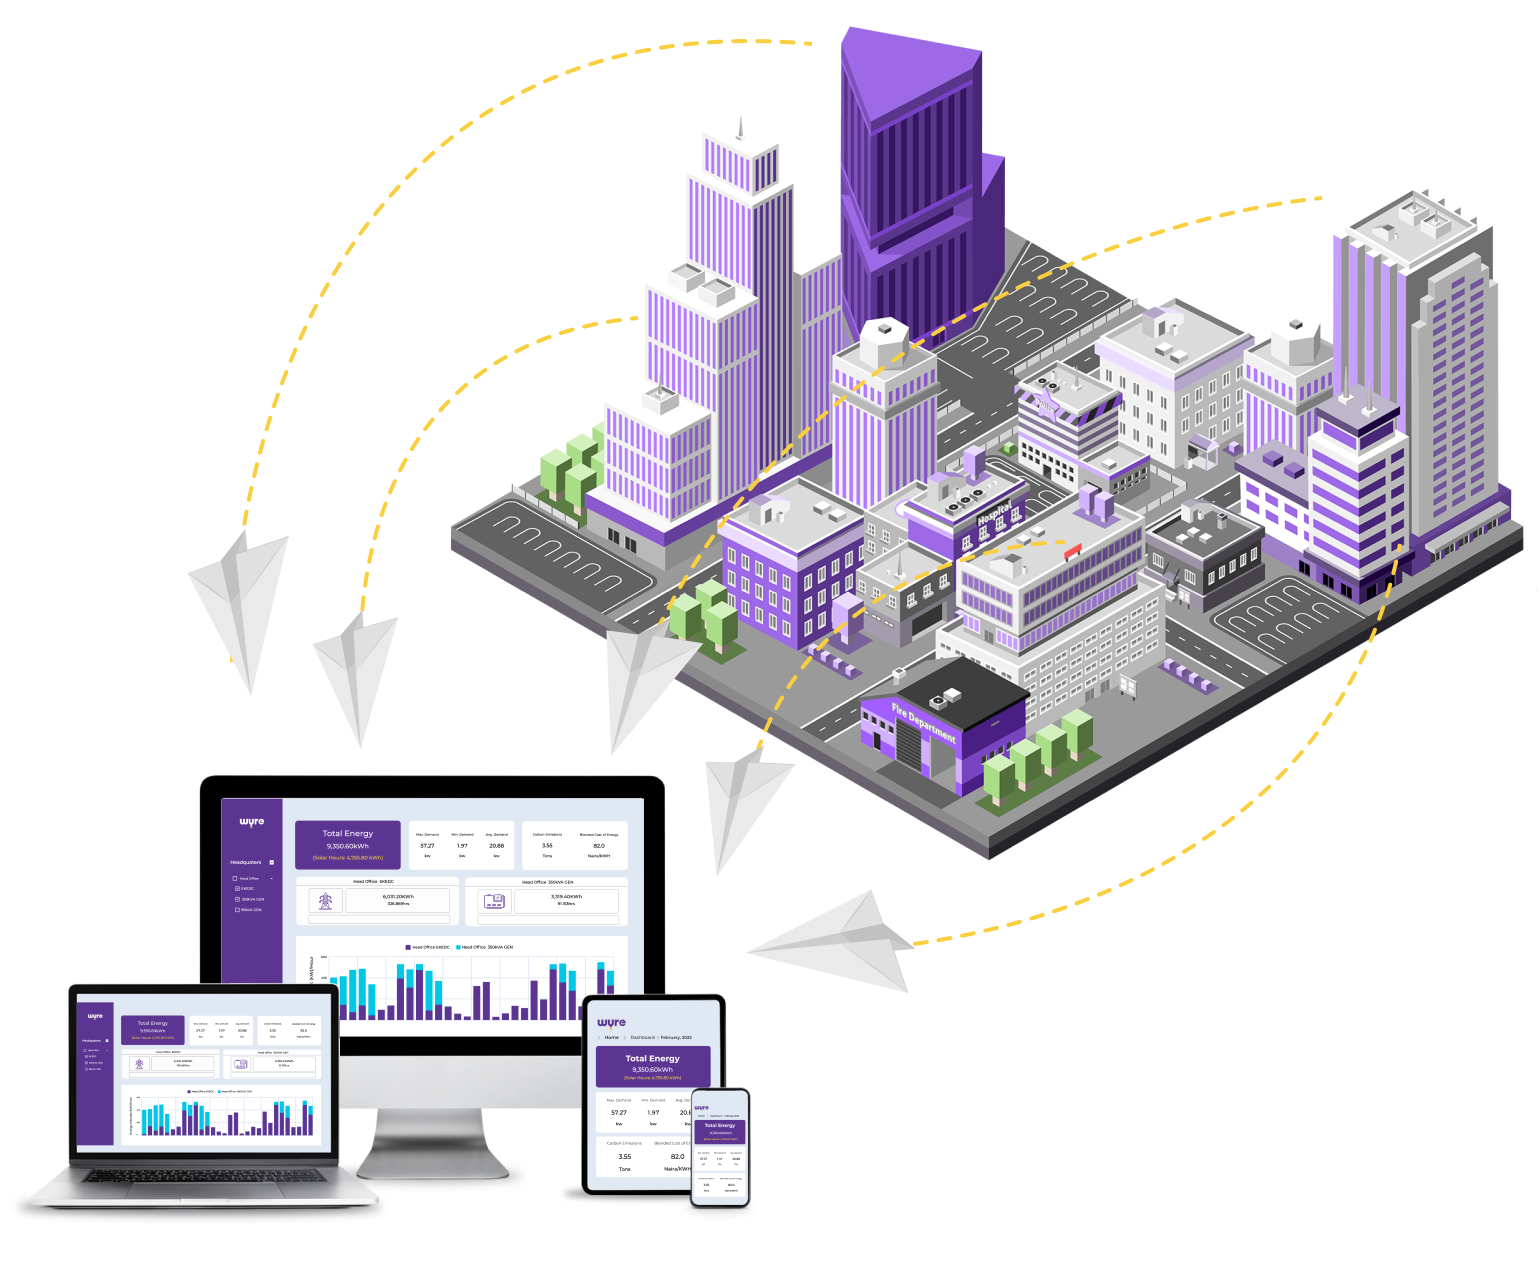
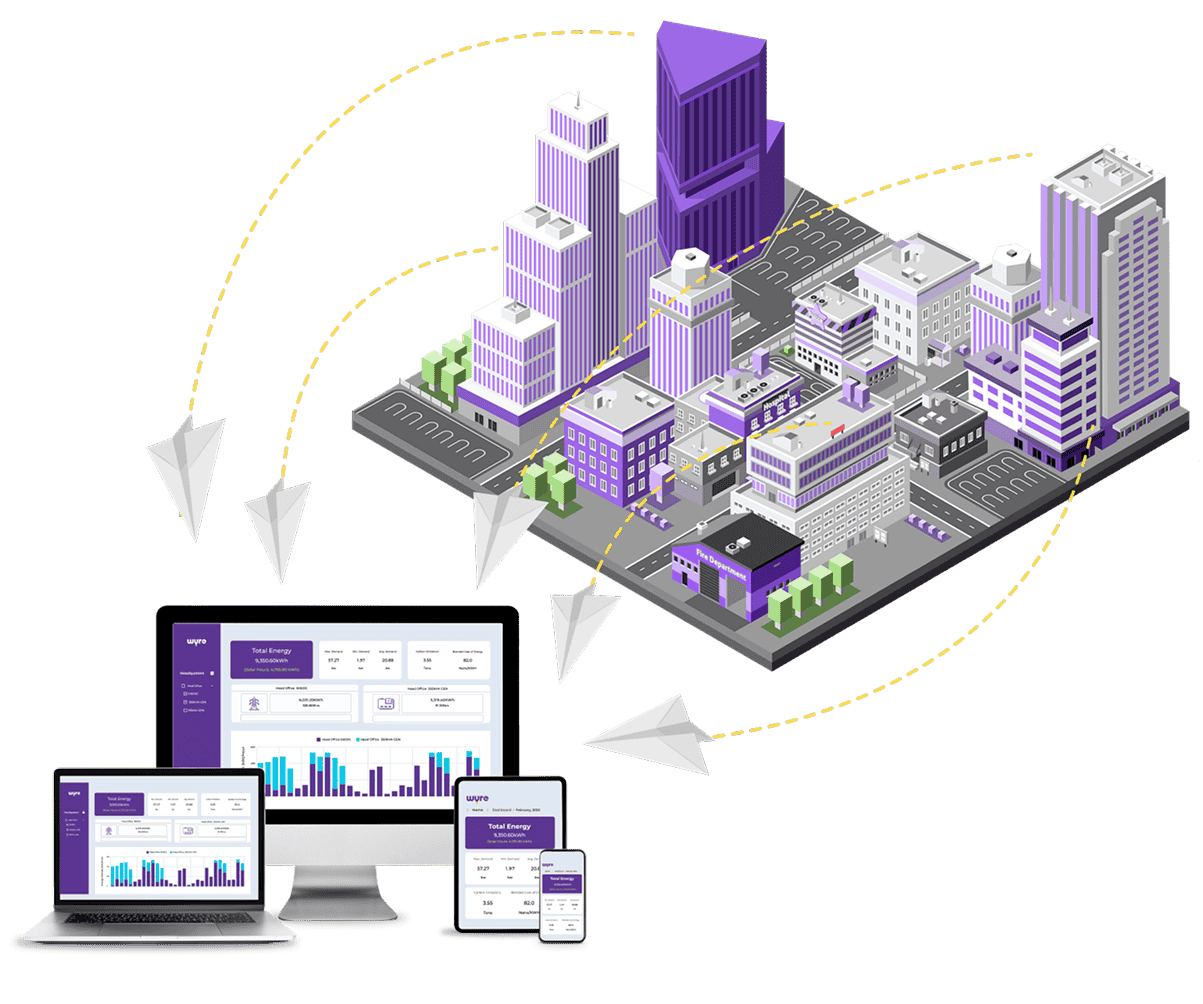
Update images in Hero component; replace wyre-monitor-1.png with wyre-monitor.png, remove solar-container.png and wyre-monitor-1.png for project cleanup

diff --git a/src/sections/Hero.tsx b/src/sections/Hero.tsx
@@ -4,7 +4,7 @@ import ".././styles/contents.css"
 import { AnimatePresence, motion } from "framer-motion";
 import type { Variants } from "framer-motion"
 import img1 from "/img/hero-img.png"
-import img2 from "/img/wyre-monitor-1.png"
+import img2 from "/img/wyre-monitor.png"
 import img3 from "/img/wyre-commercial.png"
 import { FlipWords } from "../components/ui/shadcn-io/flip-words"
 import LogoCloud from "../sections/LogoCloud"
@@ -14,12 +14,12 @@ const Hero = () => {
     {
       src: img1,
       alt: "hero image",
-      containerClassName: "w-full h-full h-[75%] max-h-[600px] -ml-14 object-contain"
+      containerClassName: "w-full h-full h-[75%] max-h-[600px] object-contain"
     },
     {
       src: img2,
       alt: "hero image",
-      containerClassName: "w-full h-full -ml-24 h-[70%] max-h-[580px] max-2xl:max-h-[500px] object-contain -ml-28 "
+      containerClassName: "w-full h-full -ml-24 h-[70%] max-h-[580px] max-2xl:max-h-[500px] object-contain "
     },
     {
       src: img3,
@@ -51,7 +51,7 @@ const Hero = () => {
   return (
     <>
       <div className="min-h-[75vh] container relative overflow-hidden z-20 max-sm:px-6 max-2xl:px-12 w-full mx-auto flex items-center justify-center gap-8">
-        <div className="flex flex-col flex-1 max-w-[60%] max-[599px]:max-w-full 2xl:px-0 2xl:ml-[10%]">
+        <div className="flex flex-col flex-1 max-w-[60%] max-[599px]:max-w-full 2xl:px-0 2xl:ml-[8%]">
           <h1 className="flex gap-2 text-white text-[clamp(30px,4.5vw,65px)] not-italic font-bold leading-[clamp(3rem,6vw,6rem)] tracking-[-0.2rem] max-[700px]:text-[clamp(32px,5vw,75px)] max-[700px]:tracking-normal">
             <motion.span
               variants={heroHeadingVariants}
